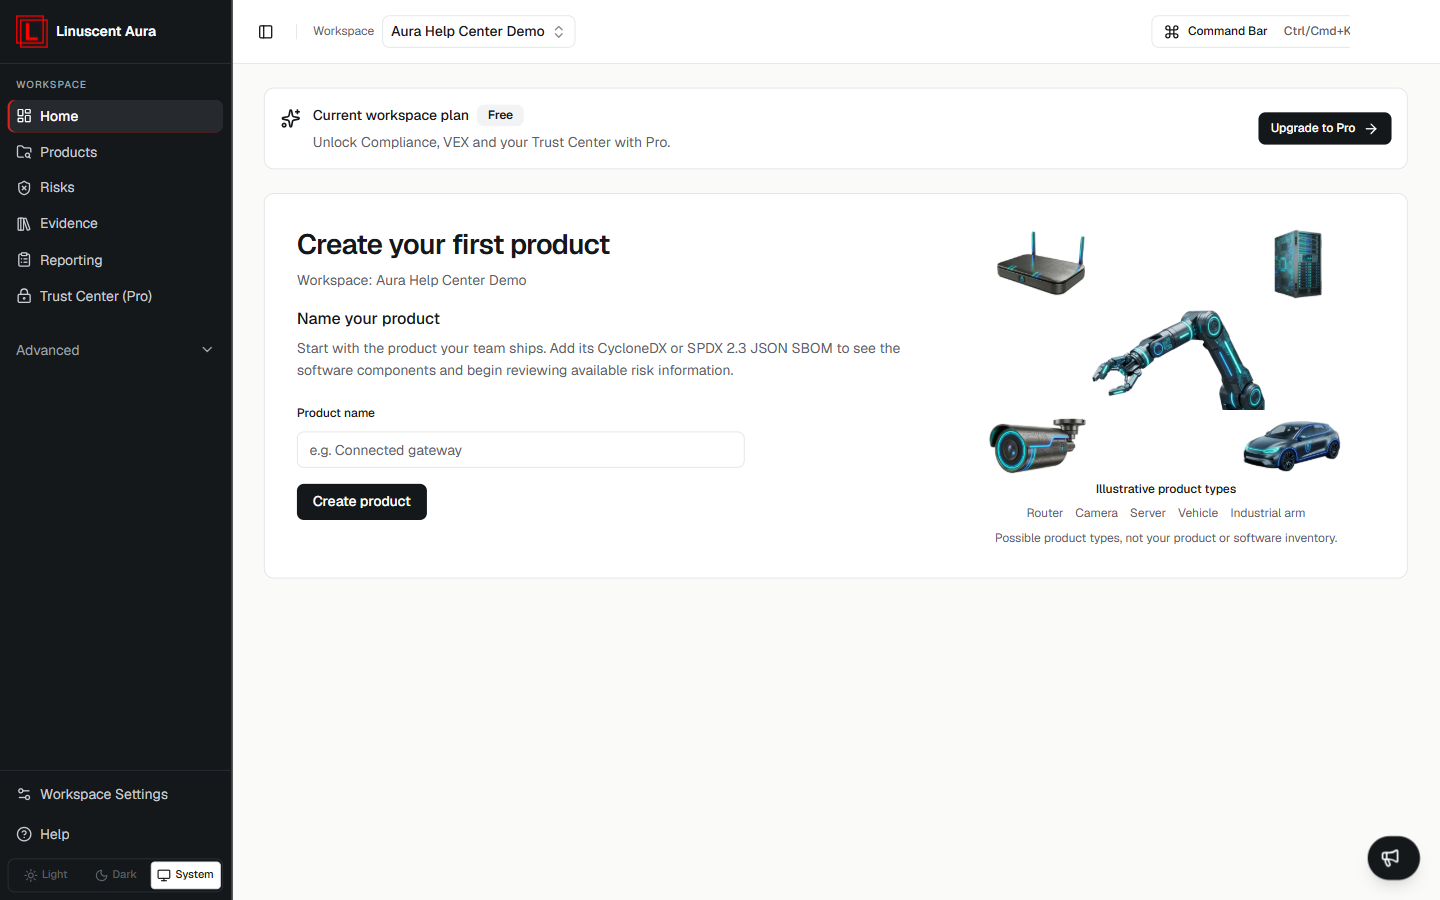
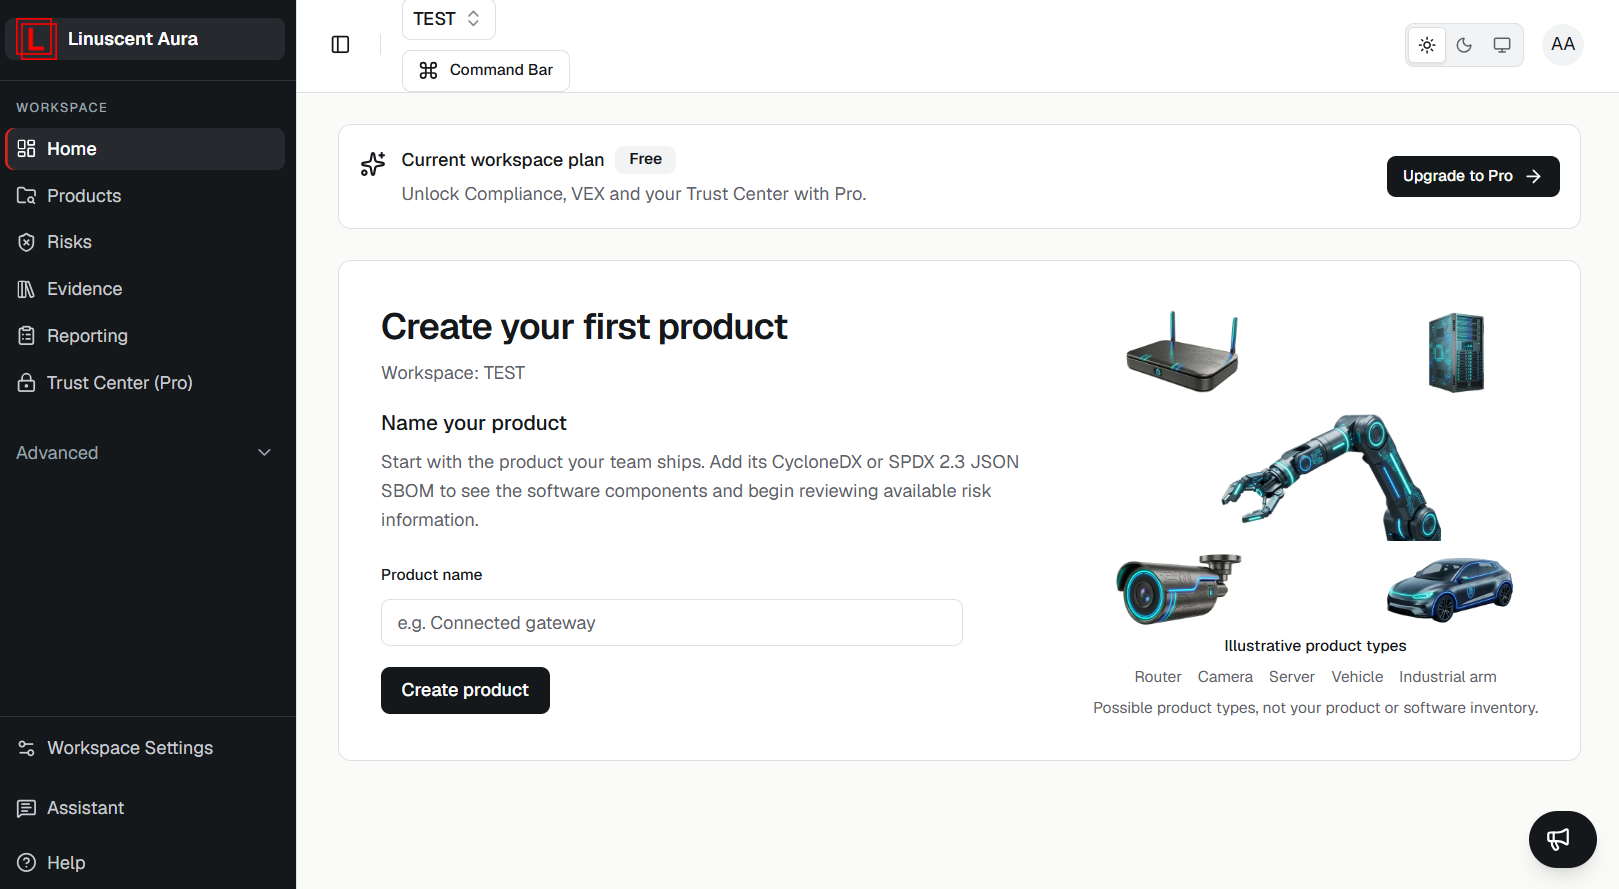
docs: refine help center screenshots and placement

diff --git a/src/content/docs/risks/vex-decisions.md b/src/content/docs/risks/vex-decisions.md
@@ -20,6 +20,8 @@ component, and choose **Draft assessment**. States use plain names: **Under
 review**, **Exploitable**, **Not affected**, **False positive**, **Resolved** and
 **Not set**. A justification is asked for only when you choose **Not affected**.
 
+![Saving a technical vulnerability assessment on the Risks page.](../../../assets/screenshots/risks/vex-save-assessment.png)
+
 Use the available finding facts and product context to justify your decision. EPSS and known-exploited (KEV) information are available on all plans when supplied by the source. Unavailable scores or statuses remain unknown; do not interpret them as zero risk or a negative exploitation result.
 
 Saving a technical assessment or changing suppression does not automatically create or export a VEX document. It also does not determine whether an incident or vulnerability is legally reportable.

diff --git a/src/content/docs/products-and-releases/product-overview.md b/src/content/docs/products-and-releases/product-overview.md
@@ -24,6 +24,8 @@ The exact information available may depend on the product's releases, workspace 
 
 Select **Upload SBOM** to add a supported CycloneDX JSON/XML or SPDX 2.3 JSON SBOM to the product. Review the preview, then select **Import SBOM** to submit. Aura sends the original document text; CycloneDX is passed through unchanged and SPDX is converted server-side. Conversion may omit source details, including dependency relationships. When relationships matter, generate native CycloneDX with those relationships included; completeness depends on the source SBOM.
 
+![Import an SBOM on the product page.](../../../assets/screenshots/products-and-releases/product-import-sbom.png)
+
 Every accepted upload creates a new release.
 
 For detailed instructions, see [Upload an SBOM](/sbom/upload-sbom).

diff --git a/src/content/docs/risks/vulnerability-severity.md b/src/content/docs/risks/vulnerability-severity.md
@@ -33,6 +33,8 @@ Grey is also used when no finding was observed or results are unavailable.
 Colour is always shown with a label or count, so severity never depends on
 colour alone.
 
+![Severity colours used across Aura.](../../../assets/screenshots/risks/vulnerability-severity.png)
+
 ## Interpreting Severity
 
 Severity is one factor in risk evaluation. It should be considered
